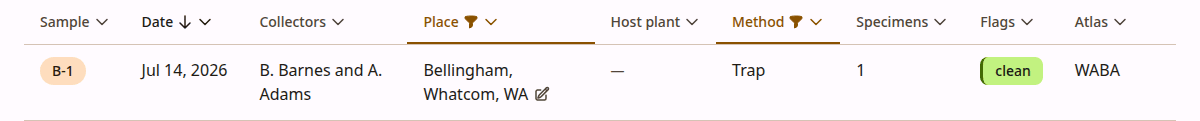
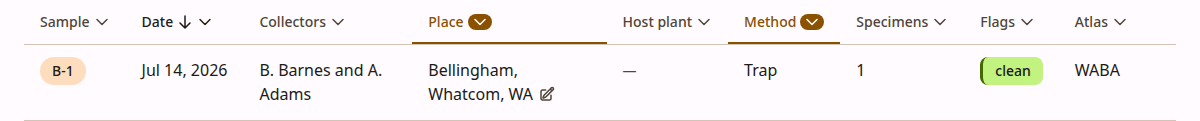
A filtered column's menu chevron sits in a filled oval, replacing the funnel (beeline-5ei8)
Peter saw the funnel design and chose a different one: on a column whose filter is in use, the existing down-chevron is set in an oval filled with the primary colour, with the chevron in the on-primary colour. The oval is as tall as the chevron, so the heading row does not grow. The funnel icon is removed. The heading colour, the rule under the cell and the "filter in use" accessible name are unchanged.

diff --git a/src/app/views/icons.tsx b/src/app/views/icons.tsx
@@ -117,26 +117,6 @@ export function ChevronDownIcon() {
   );
 }
 
-/** Heroicons' funnel, filled: a filter in this column is narrowing the list. */
-export function FilterIcon() {
-  return (
-    <svg
-      xmlns="http://www.w3.org/2000/svg"
-      viewBox="0 0 24 24"
-      fill="currentColor"
-      stroke="currentColor"
-      stroke-width="1.5"
-      stroke-linejoin="round"
-      width="16"
-      height="16"
-      class="icon icon-small"
-      aria-hidden="true"
-    >
-      <path d="M12 3c2.755 0 5.455.232 8.083.678.533.09.917.556.917 1.096v1.044a2.25 2.25 0 0 1-.659 1.591l-5.432 5.432a2.25 2.25 0 0 0-.659 1.591v2.927a2.25 2.25 0 0 1-1.244 2.013L9.75 21v-6.568a2.25 2.25 0 0 0-.659-1.591L3.659 7.409A2.25 2.25 0 0 1 3 5.818V4.774c0-.54.384-1.006.917-1.096A48.32 48.32 0 0 1 12 3Z" />
-    </svg>
-  );
-}
-
 /** The table is ordered by this column, lowest first. */
 export function ArrowUpIcon() {
   return (
@@ -161,7 +141,6 @@ export const ICON_SET = [
   { name: "PersonIcon", use: "Account menu, when the volunteer has no iNaturalist avatar", render: PersonIcon },
   { name: "SearchIcon", use: "The search button on a listing", render: SearchIcon },
   { name: "ChevronDownIcon", use: "A column heading that opens a menu — the same mark on every one", render: ChevronDownIcon },
-  { name: "FilterIcon", use: "A column heading whose filter is narrowing the list", render: FilterIcon },
   { name: "ArrowUpIcon", use: "The table is ordered by this column, lowest first", render: ArrowUpIcon },
   { name: "ArrowDownIcon", use: "The table is ordered by this column, highest first", render: ArrowDownIcon },
 ] as const;

diff --git a/src/app/static/components.css b/src/app/static/components.css
@@ -507,9 +507,17 @@ th details.col-menu > summary:hover, th details.col-menu[open] > summary { backg
    rather than as shrunken text, which is what made the old one unreadable. */
 th details.col-menu > summary .icon { flex: none; }
 th[aria-sort] details.col-menu > summary { color: var(--md-sys-color-on-surface); }
-/* A column whose filter is narrowing the list: the primary colour, a filled
-   funnel beside the name and a rule under the heading, so a reader scanning
-   the header row sees which columns the list is cut by. */
+/* A column whose filter is narrowing the list: its menu chevron is set in an
+   oval with the colours inverted (primary fill, on-primary chevron), and a
+   rule runs under the heading. The oval is as tall as the chevron, so the
+   heading row does not grow. */
+th[data-filtered] details.col-menu > summary > .icon:last-child {
+  box-sizing: content-box;
+  padding: 0 var(--space-1);
+  border-radius: var(--radius-full);
+  background: var(--md-sys-color-primary);
+  color: var(--md-sys-color-on-primary);
+}
 th[data-filtered] { box-shadow: inset 0 -2px 0 var(--md-sys-color-primary); }
 th[data-filtered] details.col-menu > summary,
 th[data-filtered] details.col-menu > summary:hover,

diff --git a/src/app/views/components/listing.tsx b/src/app/views/components/listing.tsx
@@ -1,5 +1,5 @@
 import type { Child } from "hono/jsx";
-import { ArrowDownIcon, ArrowUpIcon, ChevronDownIcon, FilterIcon, SearchIcon } from "../icons.js";
+import { ArrowDownIcon, ArrowUpIcon, ChevronDownIcon, SearchIcon } from "../icons.js";
 import { Button } from "./button.js";
 
 /**
@@ -169,7 +169,6 @@ export function ColumnMenu({ label, spec }: { label: Child; spec: ColumnMenuSpec
     <details class="menu col-menu">
       <summary aria-label={spec.menuLabel}>
         <span>{label}</span>
-        {spec.filtered === true && <FilterIcon />}
         {sort?.current === "asc" && <ArrowUpIcon />}
         {sort?.current === "desc" && <ArrowDownIcon />}
         <ChevronDownIcon />

diff --git a/docs/architecture/browsing-scope-filters-sort.md b/docs/architecture/browsing-scope-filters-sort.md
@@ -2,7 +2,7 @@
 
 Part of Beeline's architecture notes; the index is [README.md](README.md).
 
-Browsing lives at `/samples` and `/specimens` (`src/app/listings.ts` + `src/app/views/listings.tsx`, beeline-2c3.21): the same paged table at two grains, with scope, filters, search, sort and page all in the query string so a filtered listing is a shareable URL, and one download of exactly what the filters select: a CSV on `/samples`, and on `/specimens` the Excel file for editing specimens (beeline-kgyd.5, Peter, 2026-11-17: the specimens CSV was dropped, so that the Excel file is that listing's one download; a program reads the same columns from the API's specimen rows, and the exports page has the files). Its columns are in Darwin Core terms wherever one exists (the pin's number is `fieldNumber` and `catalogNumber` the museum's, filled only where Ecdysis has reported it, per ADR 0008's amendment and gh-98; the sample number is `fieldNumber` on the samples CSV and `sampleNumber` among the specimen columns). The samples CSV is UTF-8 with a BOM, `\n` line endings, and streamed whole a page at a time, so it has no cap and no line that is not a record; a numeric cell is never formula-guarded, since a guarded longitude is `'-123.26`, text. Reshaped with Peter and Nora on the sandbox (2026-09-16): each column heading opens a menu holding that column's two sort orders and its filter — a listing *describes* its columns as `TableColumn` specs and `DataTable` draws them, through the one `ColumnMenu` in the component library (the header's `<details class="menu">` with the panel fixed so the wrapper's sideways scroll cannot clip it), so every menu wears the same chevron, the order in force is a separate arrow with `aria-sort` on the heading cell, and a column whose filter is narrowing the list (`filterInUse` in `src/app/views/listings.tsx`: a filter field that differs from `EMPTY_QUERY`, the Atlas column counting only a program chosen in its menu, not the scope toggle's positions, among them the reader's own atlas) gets `data-filtered` on its heading cell, drawn in the primary colour with a filled funnel and a rule under it, and its menu's accessible name ends "filter in use" (beeline-5ei8, Peter, 2026-11-20), and no screen can draw a heading differently from the next; it was written out twice at first, for the listings and for People, and the two had drifted within a day (Peter, 2026-09-17) — whose form carries the rest of the query as hidden inputs (`listingParams` is the one place the query becomes a query string, so hidden inputs and hrefs agree); what is in force reads off a row of dismissable pills, not off ten controls. Above the table sit the search box and a three-way toggle — my records, my atlas's (from `person_membership`), all — with every other program and "At large" reached through the Atlas column and shown as a pill. The determination filter (`det`) says how far the name of record goes (beeline-o9rd, Karla Salp, 2026-11-18): `undetermined` (no name), `determined` (any name), and bands by `animal_rank.ordinal` (schema/020, `rankBand` in `src/app/listings.ts`): `coarse` is above genus (ordinal under 180: family, order and so on), `genus` is genus or subgenus (180 up to 220), `species` is species or subspecies (220 and up), and `from_genus` is genus or finer, which is what a volunteer means by "named". Nothing lies between subgenus (190) and species (220) today; a rank put there would read as genus level. On samples, a band means at least one specimen is that far. A taxon name still finds only determined specimens. The listings carry one collection year (`year`, beeline-kgyd.8): the calendar year of a sample's first day, the season of `sample_season` (schema/102), as a menu above the table, since the dates under the Date column's menu were not found. It sits beside `from` and `to`, which still narrow further, and the API takes it too. On `/specimens` a row of links above the table sets the commonest filters in one click (beeline-hkd4): this collection year (read in Oregon, `oregonToday`), not named, and named only above genus; one in force is a link that removes it. The Identify specimens page has the same bands in its own menu (`det` on `/determinations`), judged on what that page shows, the person's draft or else the newest volunteer name, never the name of record. Its "to name" counts still mean no name at all, and whether they should mean nothing to genus is undecided. A record's number is a pill, the iNaturalist link is the wordmark, the host plant is a column on both listings (with its common name after it, and a filter that matches the name as observed, what iNaturalist calls the plant now, or its common name, which downloads carry as four columns after all the others: [plant-taxa.md](plant-taxa.md#what-a-host-is-today), beeline-rfkj.4), the samples listing says whether each sample was netted or trapped — a Method column, the sample page's word, with a filter and no order, since sorting two values only puts one first; the filter (`kind`) narrows specimens too, by the sample they came from — whether labels are on paper is a filter (`labels`, beeline-3v33) in the Specimens column's menu on samples and the Field number column's on specimens: a sample is waiting on labels while any specimen of an active season has none on paper, held back by a flag or in a run not yet printed (`sample_labels_waiting`, `schema/155`), and its count is written beside the specimens; a specimen asks of its own label (`specimen_on_paper`, `schema/101`, the per-specimen test `printed_sample` is now read from, so the filter and the rule that stops a printed sample following iNaturalist cannot disagree) — the samples listing's Flags cell names each kind of flag on the row in a word or two (beeline-ik0d, Peter 2026-11-04; the words in `listings.status.flag`, held to `qc_rule` by a test), a missing field naming the field and a hold showing its reason, coloured for whether it blocks printing and opening, as a `details.menu`, onto the rule's instruction and a link to the sample, since a phone has no hover; the kinds of flag are gathered in the pass that counts them, which costs nothing more, but what the findings say is not, because building every sample's details for the aggregate added about a third to the page and asking for the page's afterwards rebuilt the whole union of rules, so only the two chips made from a finding read their rule's own view for the page's samples (`findingWords`) and the rest leave their details to the sample page; colour is not the only signal, the severity being in each chip's accessible name and at the head of its panel, with blocking flags first, and a symbol for it waits on the domain icon set (beeline-2c3.14); three show and the rest are a link to the sample; and the column's menu filters to one kind (`flag`) beside the severity filter, which on specimens narrows by their sample's flags, as the severity filter does — the specimens listing also carries the date the determination of record was made — an order and no filter, since "what came back from the taxonomist this winter" is asked by sorting, and a dash where the source gave no date, which is most legacy determinations — and on a wide screen the heading row is sticky — which needs the wrapper to stop being a scroll container, since sticky positions against the nearest one, so `main > .table-scroll` is `overflow: visible` from 64rem up. A session is keyed by `inat_user_id`, never by `person.entity_id`: that is a per-store sequence draw a rebuild or `db:reseed` redraws, so a session holding one resolved to whoever inherited the number and a volunteer browsed as somebody else under the `mine` scope forced for them (beeline-ten). The person is resolved through `inat_account` per request, which also makes unbinding an account end its sessions and rebinding move them. Resolution failing is not revocation: an unbound session stops sliding its `last_seen_at` so the idle cutoff never reaches it, and rebinding that iNat user would revive every cookie ever issued for it as whoever now holds the account — so `endSessionsFor` runs on both sides of an account change and the idle purge collects orphans. Scope is `mine` (where everyone starts), one program, `outside` (collected where no member atlas reaches, called "At large" on the pages), or all of them. The Atlas column's menu lists every program, because an atlas is one kind of program (beeline-t0rh, Peter, 2026-11-18): the atlases, the National Wildlife Refuges (`NWR`) and the BLM surveys, with "At large" last; "My records" is not a program and is the scope toggle's first position, not a menu choice. A program with no states assigned has no atlas to read a sample's by, so `NWR` is the samples whose true point lies inside a refuge area (`sample_area_current`, kind `refuge`), found only where the reader may see the location, as the place filter is, and a refuge sample stays its atlas's as well, so `OBA` still finds it; `BLM` has no samples to find yet (beeline-8zlh will link the refuge program to its refuges, and the programs' own events will say which program a sample was collected for). `MM` is accepted as another name for `outside`, since the catch-all program is today exactly the samples no atlas covers, and is not offered in the menu beside it. `scopePrograms` lists the menu's programs, and the API takes the same codes as `scope`. Every scope is open to everyone: a volunteer sees every record, at minimum what iNaturalist already shows them (Peter, 2026-10-23, beeline-20w3). Until then `mine` was forced for volunteers at parse time, and the scope picker, the collector filter and the `member` filter were staff's. Scope asks where a sample fell; the `member` filter asks where its collector belongs, and the two genuinely disagree — most records from outside the atlases are members travelling (beeline-lcl). **What a reader may not see is a location**: where a sample's observation is obscured or private on iNaturalist (`sample.geoprivacy` or `taxon_geoprivacy`), or the sample cites an observation no sync has read, so that nobody here knows whether it is (1,537 legacy-linked samples on the dev store until the nightly began reading them by id, and the 404 whose observation iNaturalist no longer has after), and the reader is neither staff nor one of its collectors — a co-collector counts, and so does whoever acts for one, since a delegate reads a household's records as the household does — the row carries no coordinates, uncertainty, elevation or locality, and no county either where the observation is private, which is what iNaturalist shows them. iNaturalist's own shifted point is not offered instead; nobody has a use for it (Peter). The rule is `withheld` in `src/app/listings.ts`, applied in the query rather than the view — the location join yields nothing and the place columns read through a CASE — so the place filter, the place sort and the CSV all see the hidden values, and a search cannot find a record by a locality it would not show; the record pages reuse it, and drop with it the observation's place guess, the overrides, the history of where the sample was and what its findings quote. The observer's notes stay, as iNaturalist shows them to everyone, though they are where a volunteer writes the spot: iNaturalist's own handling is half-hearted and nobody has a better rule (Peter, 2026-10-23). Downloads carry coordinates otherwise, with their provenance and geoprivacy beside them: the open per-atlas question ([docs/questions.md](../questions.md)) is about revealing taxon-obscured coordinates *downstream* — on labels, to Ecdysis and GBIF — not about showing a participant their own data, and CONTEXT.md's stance is that anyone trusted with this store is trusted with them. Dashboards scope to the active seasons: the current one, and last season until 1 March, when it settles (`season`/`settled_sample`, CONTEXT.md's **Season**), still flagged and still fixable but no longer asking.
+Browsing lives at `/samples` and `/specimens` (`src/app/listings.ts` + `src/app/views/listings.tsx`, beeline-2c3.21): the same paged table at two grains, with scope, filters, search, sort and page all in the query string so a filtered listing is a shareable URL, and one download of exactly what the filters select: a CSV on `/samples`, and on `/specimens` the Excel file for editing specimens (beeline-kgyd.5, Peter, 2026-11-17: the specimens CSV was dropped, so that the Excel file is that listing's one download; a program reads the same columns from the API's specimen rows, and the exports page has the files). Its columns are in Darwin Core terms wherever one exists (the pin's number is `fieldNumber` and `catalogNumber` the museum's, filled only where Ecdysis has reported it, per ADR 0008's amendment and gh-98; the sample number is `fieldNumber` on the samples CSV and `sampleNumber` among the specimen columns). The samples CSV is UTF-8 with a BOM, `\n` line endings, and streamed whole a page at a time, so it has no cap and no line that is not a record; a numeric cell is never formula-guarded, since a guarded longitude is `'-123.26`, text. Reshaped with Peter and Nora on the sandbox (2026-09-16): each column heading opens a menu holding that column's two sort orders and its filter — a listing *describes* its columns as `TableColumn` specs and `DataTable` draws them, through the one `ColumnMenu` in the component library (the header's `<details class="menu">` with the panel fixed so the wrapper's sideways scroll cannot clip it), so every menu wears the same chevron, the order in force is a separate arrow with `aria-sort` on the heading cell, and a column whose filter is narrowing the list (`filterInUse` in `src/app/views/listings.tsx`: a filter field that differs from `EMPTY_QUERY`, the Atlas column counting only a program chosen in its menu, not the scope toggle's positions, among them the reader's own atlas) gets `data-filtered` on its heading cell, drawn in the primary colour with its menu chevron set in a filled oval and a rule under it, and its menu's accessible name ends "filter in use" (beeline-5ei8, Peter, 2026-11-20), and no screen can draw a heading differently from the next; it was written out twice at first, for the listings and for People, and the two had drifted within a day (Peter, 2026-09-17) — whose form carries the rest of the query as hidden inputs (`listingParams` is the one place the query becomes a query string, so hidden inputs and hrefs agree); what is in force reads off a row of dismissable pills, not off ten controls. Above the table sit the search box and a three-way toggle — my records, my atlas's (from `person_membership`), all — with every other program and "At large" reached through the Atlas column and shown as a pill. The determination filter (`det`) says how far the name of record goes (beeline-o9rd, Karla Salp, 2026-11-18): `undetermined` (no name), `determined` (any name), and bands by `animal_rank.ordinal` (schema/020, `rankBand` in `src/app/listings.ts`): `coarse` is above genus (ordinal under 180: family, order and so on), `genus` is genus or subgenus (180 up to 220), `species` is species or subspecies (220 and up), and `from_genus` is genus or finer, which is what a volunteer means by "named". Nothing lies between subgenus (190) and species (220) today; a rank put there would read as genus level. On samples, a band means at least one specimen is that far. A taxon name still finds only determined specimens. The listings carry one collection year (`year`, beeline-kgyd.8): the calendar year of a sample's first day, the season of `sample_season` (schema/102), as a menu above the table, since the dates under the Date column's menu were not found. It sits beside `from` and `to`, which still narrow further, and the API takes it too. On `/specimens` a row of links above the table sets the commonest filters in one click (beeline-hkd4): this collection year (read in Oregon, `oregonToday`), not named, and named only above genus; one in force is a link that removes it. The Identify specimens page has the same bands in its own menu (`det` on `/determinations`), judged on what that page shows, the person's draft or else the newest volunteer name, never the name of record. Its "to name" counts still mean no name at all, and whether they should mean nothing to genus is undecided. A record's number is a pill, the iNaturalist link is the wordmark, the host plant is a column on both listings (with its common name after it, and a filter that matches the name as observed, what iNaturalist calls the plant now, or its common name, which downloads carry as four columns after all the others: [plant-taxa.md](plant-taxa.md#what-a-host-is-today), beeline-rfkj.4), the samples listing says whether each sample was netted or trapped — a Method column, the sample page's word, with a filter and no order, since sorting two values only puts one first; the filter (`kind`) narrows specimens too, by the sample they came from — whether labels are on paper is a filter (`labels`, beeline-3v33) in the Specimens column's menu on samples and the Field number column's on specimens: a sample is waiting on labels while any specimen of an active season has none on paper, held back by a flag or in a run not yet printed (`sample_labels_waiting`, `schema/155`), and its count is written beside the specimens; a specimen asks of its own label (`specimen_on_paper`, `schema/101`, the per-specimen test `printed_sample` is now read from, so the filter and the rule that stops a printed sample following iNaturalist cannot disagree) — the samples listing's Flags cell names each kind of flag on the row in a word or two (beeline-ik0d, Peter 2026-11-04; the words in `listings.status.flag`, held to `qc_rule` by a test), a missing field naming the field and a hold showing its reason, coloured for whether it blocks printing and opening, as a `details.menu`, onto the rule's instruction and a link to the sample, since a phone has no hover; the kinds of flag are gathered in the pass that counts them, which costs nothing more, but what the findings say is not, because building every sample's details for the aggregate added about a third to the page and asking for the page's afterwards rebuilt the whole union of rules, so only the two chips made from a finding read their rule's own view for the page's samples (`findingWords`) and the rest leave their details to the sample page; colour is not the only signal, the severity being in each chip's accessible name and at the head of its panel, with blocking flags first, and a symbol for it waits on the domain icon set (beeline-2c3.14); three show and the rest are a link to the sample; and the column's menu filters to one kind (`flag`) beside the severity filter, which on specimens narrows by their sample's flags, as the severity filter does — the specimens listing also carries the date the determination of record was made — an order and no filter, since "what came back from the taxonomist this winter" is asked by sorting, and a dash where the source gave no date, which is most legacy determinations — and on a wide screen the heading row is sticky — which needs the wrapper to stop being a scroll container, since sticky positions against the nearest one, so `main > .table-scroll` is `overflow: visible` from 64rem up. A session is keyed by `inat_user_id`, never by `person.entity_id`: that is a per-store sequence draw a rebuild or `db:reseed` redraws, so a session holding one resolved to whoever inherited the number and a volunteer browsed as somebody else under the `mine` scope forced for them (beeline-ten). The person is resolved through `inat_account` per request, which also makes unbinding an account end its sessions and rebinding move them. Resolution failing is not revocation: an unbound session stops sliding its `last_seen_at` so the idle cutoff never reaches it, and rebinding that iNat user would revive every cookie ever issued for it as whoever now holds the account — so `endSessionsFor` runs on both sides of an account change and the idle purge collects orphans. Scope is `mine` (where everyone starts), one program, `outside` (collected where no member atlas reaches, called "At large" on the pages), or all of them. The Atlas column's menu lists every program, because an atlas is one kind of program (beeline-t0rh, Peter, 2026-11-18): the atlases, the National Wildlife Refuges (`NWR`) and the BLM surveys, with "At large" last; "My records" is not a program and is the scope toggle's first position, not a menu choice. A program with no states assigned has no atlas to read a sample's by, so `NWR` is the samples whose true point lies inside a refuge area (`sample_area_current`, kind `refuge`), found only where the reader may see the location, as the place filter is, and a refuge sample stays its atlas's as well, so `OBA` still finds it; `BLM` has no samples to find yet (beeline-8zlh will link the refuge program to its refuges, and the programs' own events will say which program a sample was collected for). `MM` is accepted as another name for `outside`, since the catch-all program is today exactly the samples no atlas covers, and is not offered in the menu beside it. `scopePrograms` lists the menu's programs, and the API takes the same codes as `scope`. Every scope is open to everyone: a volunteer sees every record, at minimum what iNaturalist already shows them (Peter, 2026-10-23, beeline-20w3). Until then `mine` was forced for volunteers at parse time, and the scope picker, the collector filter and the `member` filter were staff's. Scope asks where a sample fell; the `member` filter asks where its collector belongs, and the two genuinely disagree — most records from outside the atlases are members travelling (beeline-lcl). **What a reader may not see is a location**: where a sample's observation is obscured or private on iNaturalist (`sample.geoprivacy` or `taxon_geoprivacy`), or the sample cites an observation no sync has read, so that nobody here knows whether it is (1,537 legacy-linked samples on the dev store until the nightly began reading them by id, and the 404 whose observation iNaturalist no longer has after), and the reader is neither staff nor one of its collectors — a co-collector counts, and so does whoever acts for one, since a delegate reads a household's records as the household does — the row carries no coordinates, uncertainty, elevation or locality, and no county either where the observation is private, which is what iNaturalist shows them. iNaturalist's own shifted point is not offered instead; nobody has a use for it (Peter). The rule is `withheld` in `src/app/listings.ts`, applied in the query rather than the view — the location join yields nothing and the place columns read through a CASE — so the place filter, the place sort and the CSV all see the hidden values, and a search cannot find a record by a locality it would not show; the record pages reuse it, and drop with it the observation's place guess, the overrides, the history of where the sample was and what its findings quote. The observer's notes stay, as iNaturalist shows them to everyone, though they are where a volunteer writes the spot: iNaturalist's own handling is half-hearted and nobody has a better rule (Peter, 2026-10-23). Downloads carry coordinates otherwise, with their provenance and geoprivacy beside them: the open per-atlas question ([docs/questions.md](../questions.md)) is about revealing taxon-obscured coordinates *downstream* — on labels, to Ecdysis and GBIF — not about showing a participant their own data, and CONTEXT.md's stance is that anyone trusted with this store is trusted with them. Dashboards scope to the active seasons: the current one, and last season until 1 March, when it settles (`season`/`settled_sample`, CONTEXT.md's **Season**), still flagged and still fixable but no longer asking.
 
 On `/samples` the Place cell of a sample whose locality the reader may change carries a pencil (beeline-7ywr, Peter, 2026-11-04): it opens, in the cell, a combobox of iNaturalist's own locality and the names suggested from the coordinates, each with why in a word or two ("nearby town", "park") and listed with the sample's county and state as the column writes the place but saved as the locality alone (a choice's `label`, which the island shows in place of its value), free for staff to write one in, and Save posts to `/samples/:id/place`, which works out from the name alone what to write (empty or iNaturalist's name follows iNaturalist again, a suggested name is adopted, anything else is written in), then returns to the same listing, or to the sample's page where the editor was opened there. The editor is `PlaceEdit` (`src/app/views/components/place-edit.tsx`), shared with the sample page's Place row, on the general `InlineEdit` (beeline-8w8n). Staff are offered it on a printed sample too, to correct the record before a reprint, with a line saying the labels keep the old name; nobody else is, and nobody on a printed sample entered in Beeline, whose own form refuses it. It is a `<details>`, so it opens without scripting, where the combobox is a text box with a `<datalist>`. The status filter's sixth value, `locality` ("Locality missing or unusable"), lists the samples it is for. Immediately above the table sits a row of what can be done with its rows (Peter, 2026-10-31): a Download menu on both listings, holding the CSV and what it contains, with room for other forms (a KML has been mentioned), and on `/specimens` the bulk actions staff have. Bulk actions are chosen first: a button names the action, and pressing it puts the listing in that action's mode (`act` in the query, carried by `listingHref` like any filter, and kept by Clear), with tick boxes only on the rows it can take (beeline-1kb.23). Marking labels for reprint is the only one so far; [Printing](printing.md) describes it.
 
